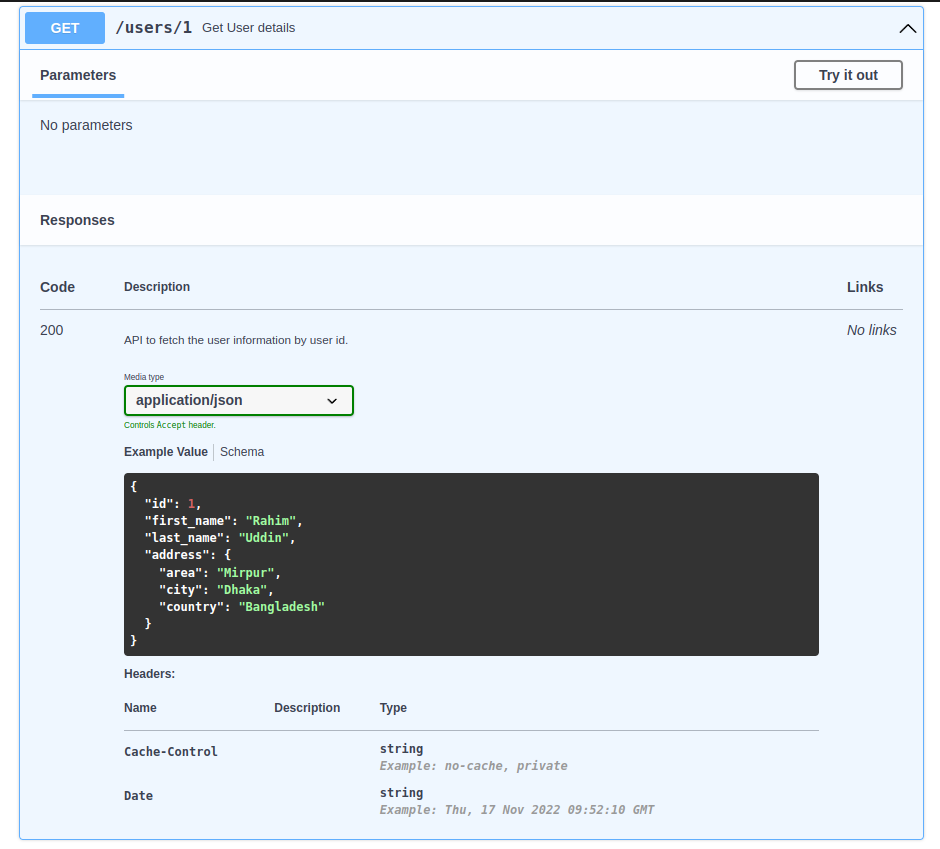
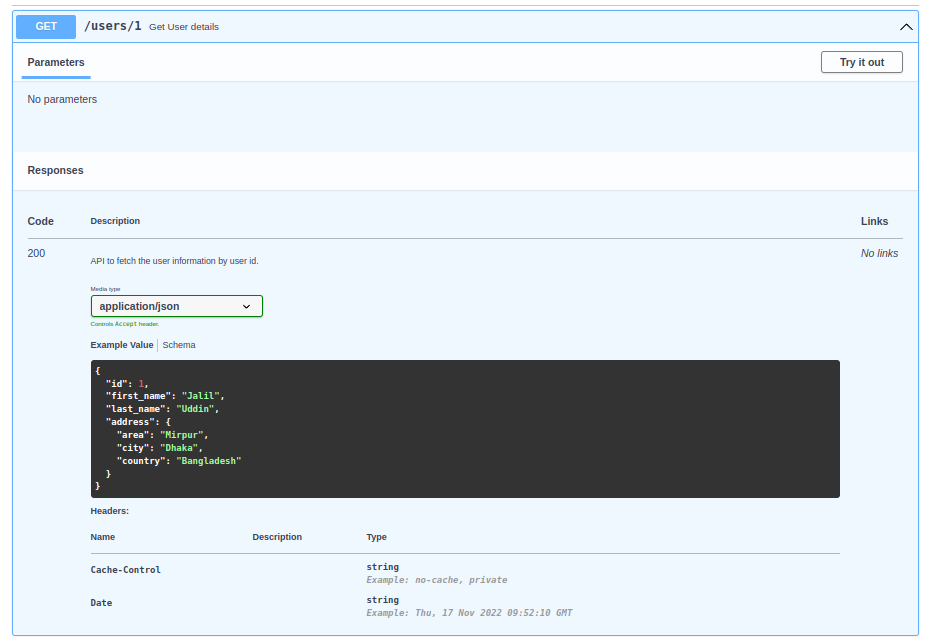
Add instruction for post API specification.

Changed region(s): [[0.0, 0.0, 0.9989, 1.0], [0.2809, 0.8125, 0.3746, 0.875]]

diff --git a/readme.md b/readme.md
@@ -106,7 +106,7 @@ paths:
                     example: 1
                   first_name:
                     type: string
-                    example: Rahim
+                    example: Jalil
                   last_name:
                     type: string
                     example: Uddin
@@ -171,7 +171,7 @@ components:
           example: 1
         first_name:
           type: string
-          example: Rahim
+          example: Jalil
         last_name:
           type: string
           example: Uddin
@@ -247,3 +247,147 @@ After making these changes, there will be a new row with parameters information 
 
 ------------
 
+- Let's add an `POST` API details in the swagger doc. Now, we will add an API specification for creating an user to our system. First we will add the route and other details like we did in the `GET` API. We need to create an key with the route name under `paths` attribute. And the key must be siblings of other routes. For example, we are setting this route as `/users`. So, it will be siblings of `/users/{id}`.
+
+```yaml
+paths:
+  /users/{id}:
+  ..............
+  /users:
+    post:
+      summary: Create New User
+      operationId: createUser
+```
+
+Then, we will add the request payload details which contains the users details. To add the request payload, we need to define it under `requestBody` attribute. Let's add the information:
+
+```yaml
+/users:
+  post:
+    summary: Create New User
+    operationId: createUser
+    requestBody:
+      description: Request payload for creating new user 
+      required: true
+      content:
+        application/json:
+          schema:
+            $ref: '#/components/schemas/UserPayload'
+components:
+  schemas:
+    UserPayload:
+      type: object
+      properties:
+        first_name:
+          type: string
+          example: Hamid
+        last_name:
+          type: string
+          example: Ahmed
+        address:
+          type: object
+          properties:
+            area:
+              type: string
+              example: Mirpur
+            city:
+              type: string
+              example: Dhaka
+            country:
+              type: string
+              example: Bangladesh
+```
+Here, `description` under `requestBody` represents the summary of the request body. Then we have set the payload content type under `content` attribute. As our request will contain JSON data, we have set our schema details under `application/json`. We have create a new schema for the request payload, and set the references on the `schema` attribute.
+
+We can add the full request body as reference, then we can use the reference directly if we need the request body anywhere. To achieve this, we need to add `requestBodies` key under `components` attribute, then we need to add the details there with a custom key name. Let's add it:
+
+```yaml
+components:
+  requestBodies:
+    UserRequestPayload:
+      description: Request payload for creating new user 
+      required: true
+      content:
+        application/json:
+          schema:
+            $ref: '#/components/schemas/UserPayload'
+```
+
+Then, we can use `UserRequestPayload` reference in the API specifications. So, we will make the changes now: 
+
+```yaml
+/users:
+  post:
+    summary: Create New User
+    operationId: createUser
+    requestBody:
+        "$ref": '#/components/requestBodies/UserRequestPayload'
+```
+
+Now, the only part left here is adding the response information. The response will be same as our `GET` request. So, our complete code will be looking like below:
+
+```yaml
+/users:
+  post:
+    summary: Create New User
+    operationId: createUser
+    requestBody:
+      "$ref": '#/components/requestBodies/UserRequestPayload'
+    responses:
+      201:
+        description: API to Create the user information and get created user's details.
+        headers:
+          Cache-Control:
+            schema:
+              type: string
+              example: no-cache, private
+          Date:
+            schema:
+              type: string
+              example: Thu, 17 Nov 2022 09:52:10 GMT
+        content:
+          application/json:
+            schema:
+              "$ref": "#/components/schemas/User"
+```
+
+After adding the `POST` API specification, there will be a new block for the user create API. After expanding the block, It will look like:
+
+![swagger_parameters](https://github.com/shakibmostahid/writing-swagger/blob/main/images/swagger_5.png?raw=true)
+
+------------
+
+- All the API details are shown under *default* group, It is called `tags`. If we don't set any tags for the route or API it will be set to *default*. Let's create a tag here and set to the routes.
+
+To create a tag, we need to define the details under `tags` attribute. This attribute will be siblings of `paths` attribute. It has no parent element.
+
+```yml
+paths:
+...................
+
+tags:
+  - name: Users
+    description: Users API specifications
+```
+
+Then, we need to add the tag name in the routes details to group it together under `tags` attribute as array value. Now the changes will be:
+
+```yml
+paths:
+  /users/{id}:
+    get:
+      tags:
+        - Users
+      .............................
+  /users:
+    post:
+      tags:
+        - Users
+      .............................
+```
+
+Now both of the routes group name is changed to `Users`. 
+
+![swagger_parameters](https://github.com/shakibmostahid/writing-swagger/blob/main/images/swagger_6.png?raw=true)
+
+------------
